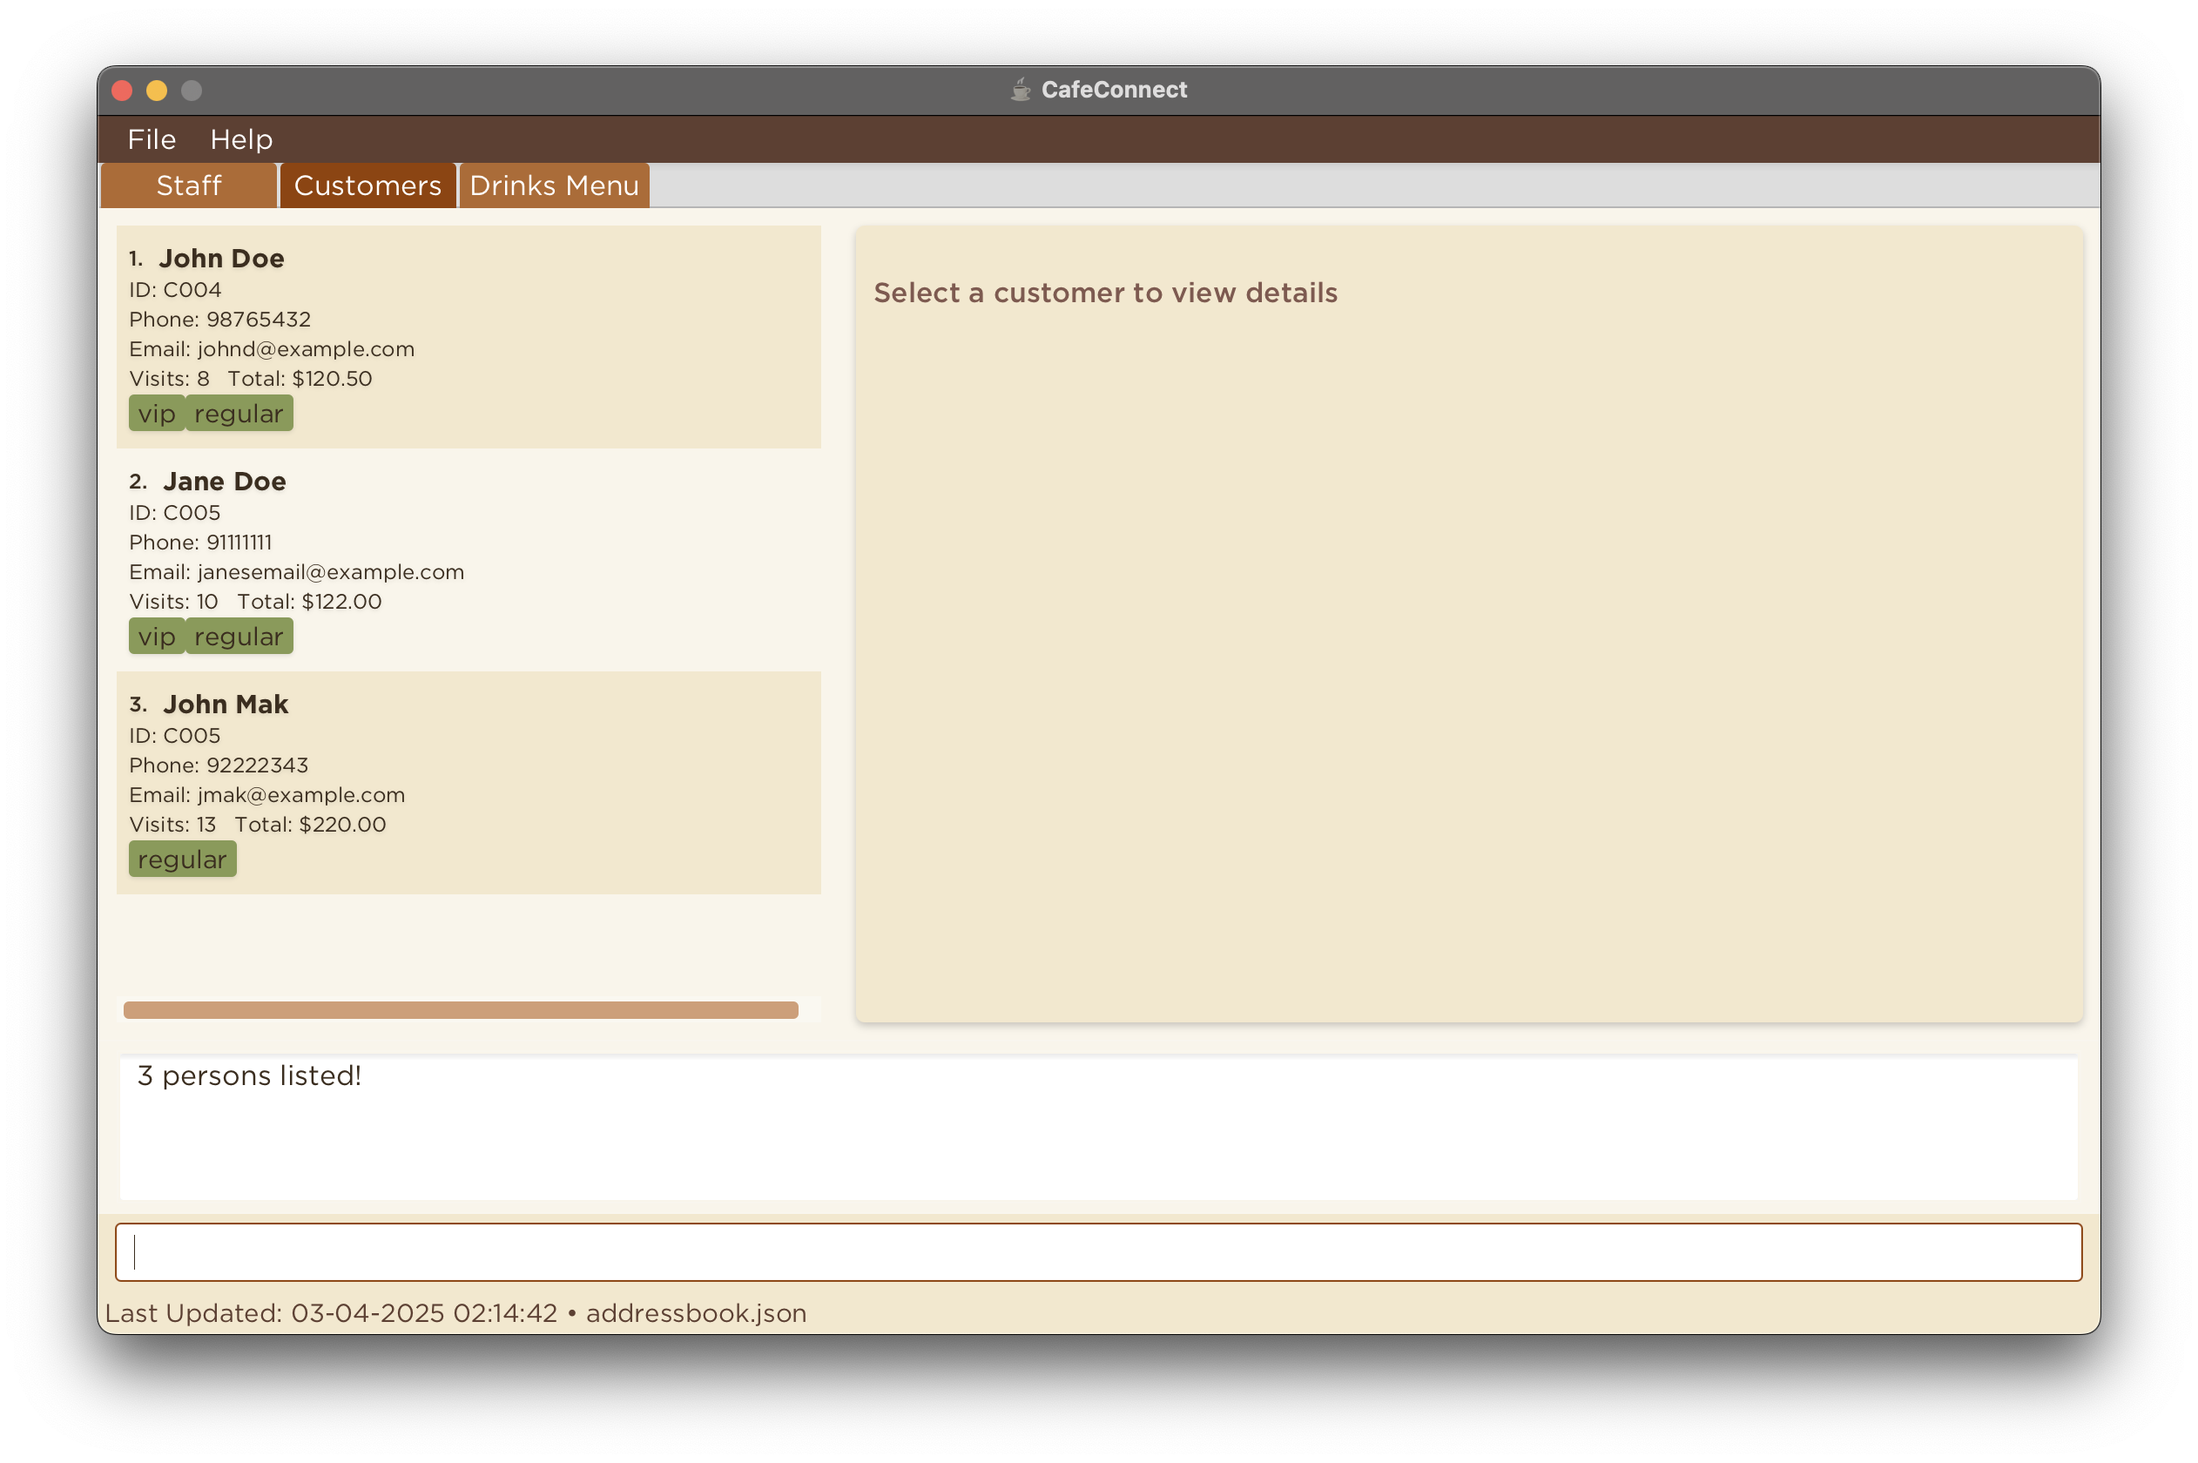
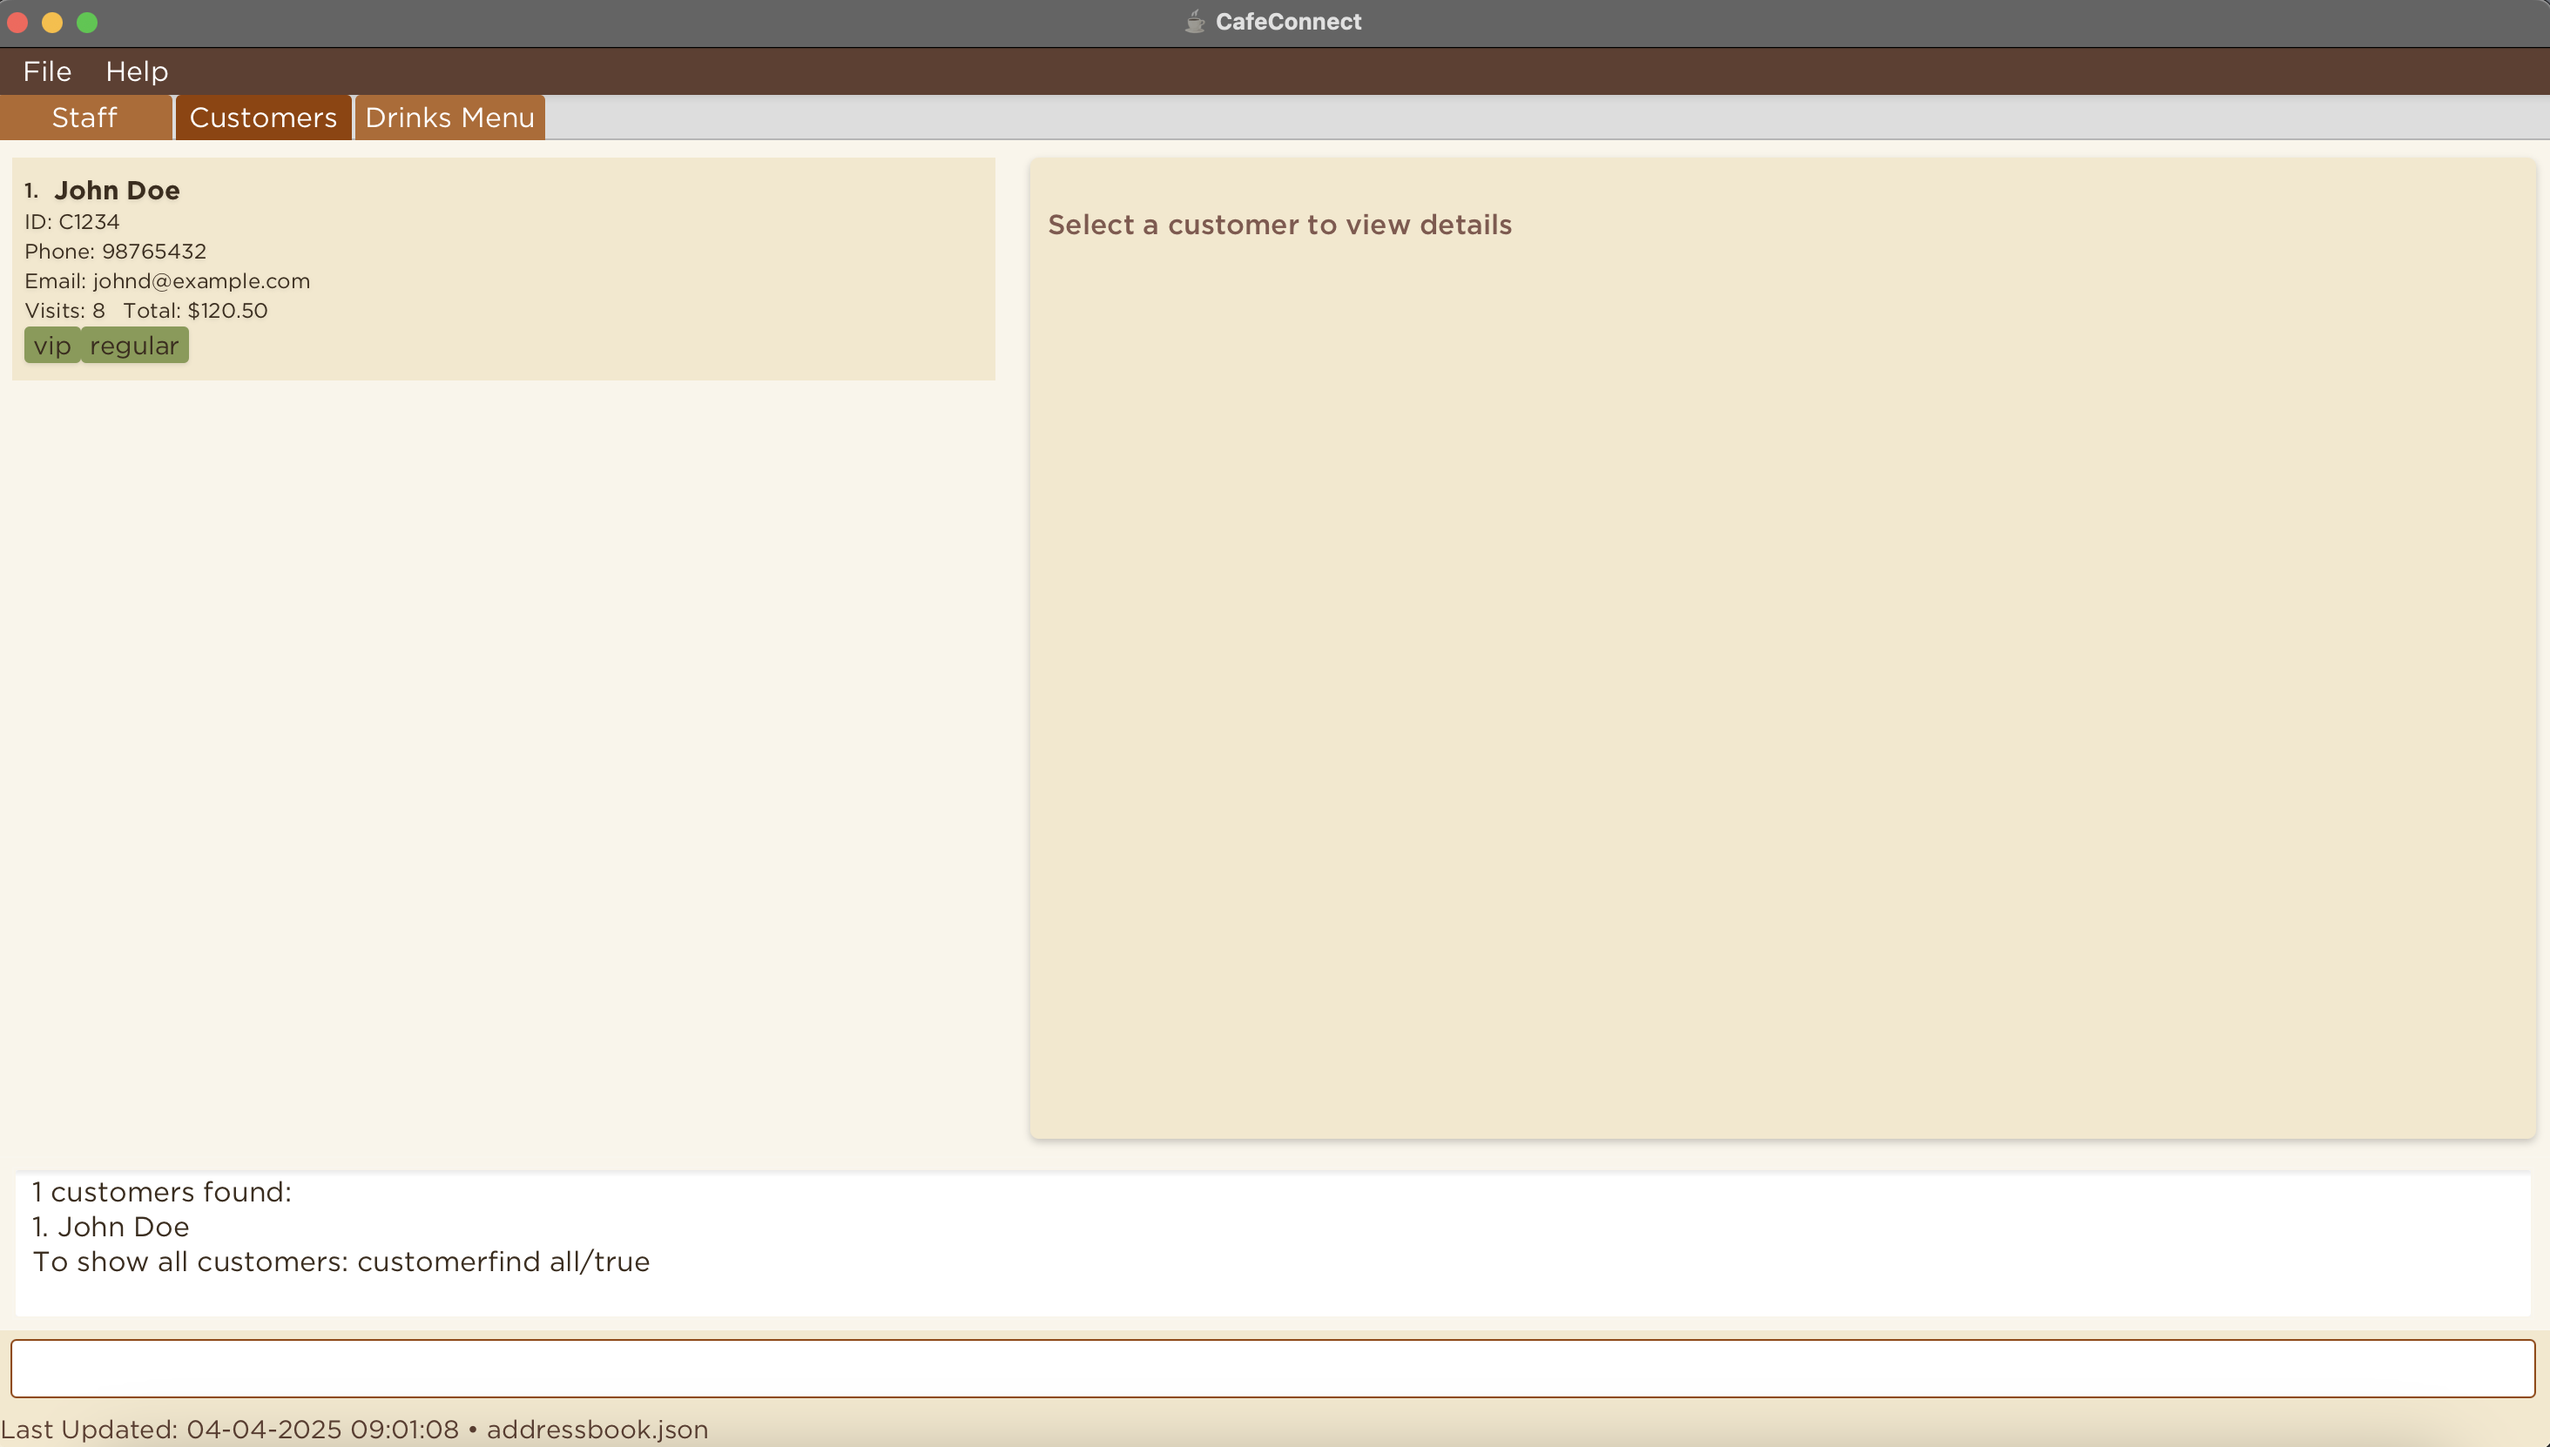
Fix AlphaBug ScreenshotsQC

diff --git a/docs/UserGuide.md b/docs/UserGuide.md
@@ -426,8 +426,8 @@ Format: `customerfind all/true` (to list all customers)
 * Use `customerfind all/true` or `cf all/true` to display the complete list of all customers in CaféConnect.
 
 Examples:
-* `customerfind Alice` or `cf Alice` finds and lists all customers whose names contain `Alice`.
-* `customerfind John Doe` or `cf John Doe` finds and lists all customers whose names contain either `John` or `Doe`.
+* `customerfind n/Alice` or `cf n/Alice` finds and lists all customers whose names contain `Alice`.
+* `customerfind n/John Doe` or `cf n/John Doe` finds and lists all customers whose names contain either `John` or `Doe`.
 * `customerfind all/true` or `cf all/true` lists all customers in CaféConnect.
 
 These are the before and after images of the second example
@@ -584,8 +584,8 @@ Format: `stafffind all/true` (to list all staff)
 * Use `stafffind all/true` or `sf all/true` to display the complete list of all staff in CaféConnect.
 
 Examples:
-* `stafffind Alice` or `sf Alice` finds and lists all staffs whose names contain `Alice`.
-* `stafffind John Doe` or `sf John Doe` finds and lists all staffs whose names contain either `John` or `Doe`.
+* `stafffind n/Alice` or `sf n/Alice` finds and lists all staffs whose names contain `Alice`.
+* `stafffind n/John Doe` or `sf n/John Doe` finds and lists all staffs whose names contain either `John` or `Doe`.
 * `stafffind all/true` or `sf all/true` lists all staff in CaféConnect.
 
 These are the before and after images of the second example
